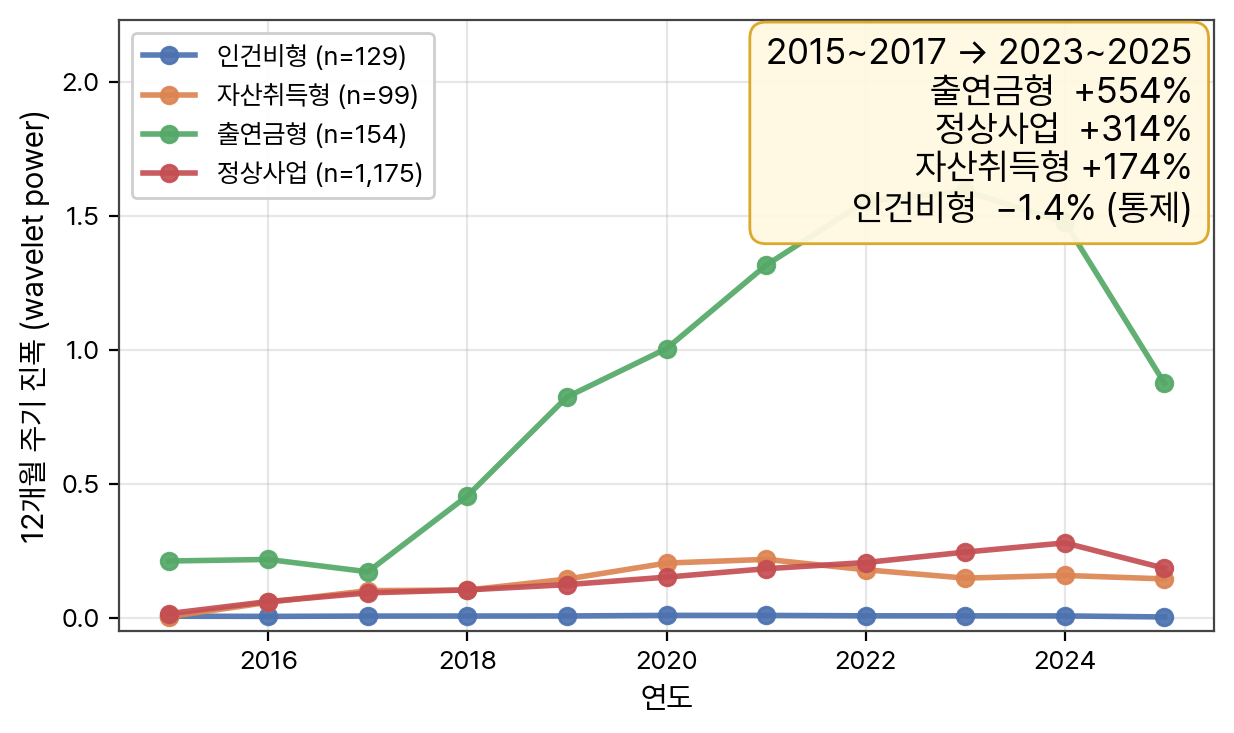
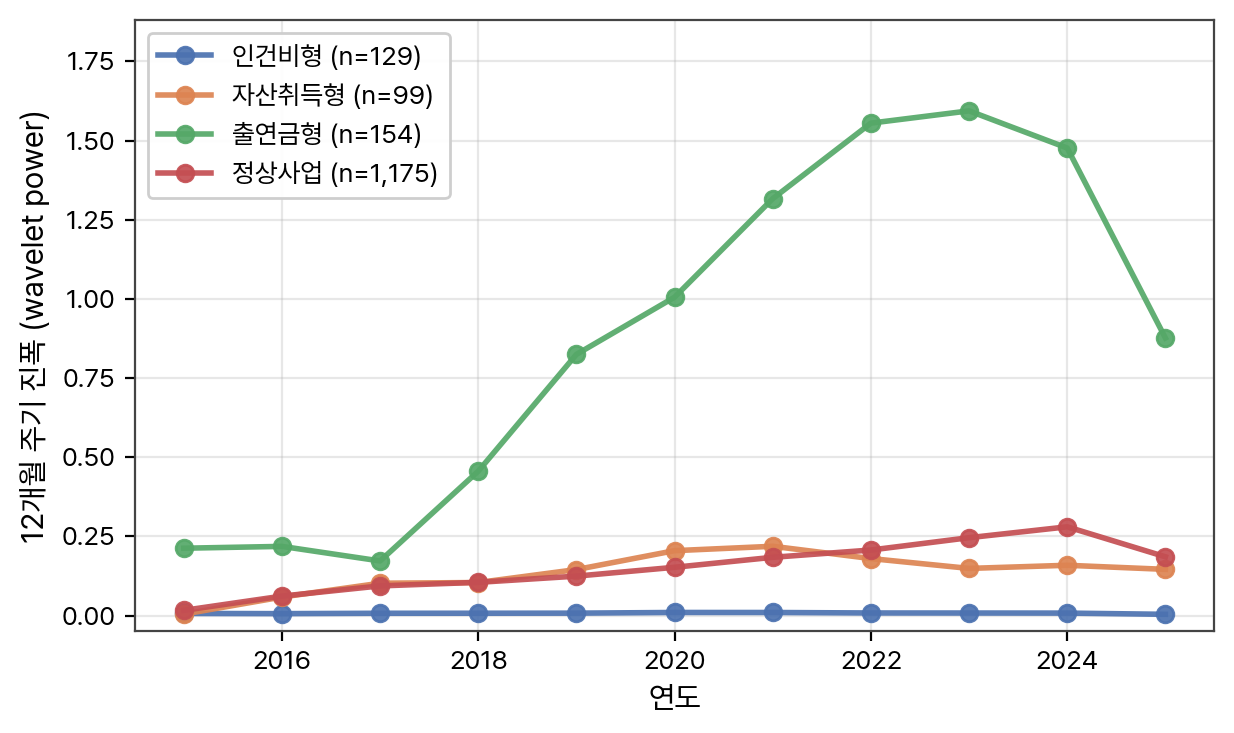
fig: h28_evolution 변화율 박스 제거 — 출연금형 정점 가림 해소
노란 annotation 박스(우상단)가 ymax 헤드룸 1.40× 부족으로 출연금형
정점 구간(2022~2024, 1.48~1.59)을 가리던 문제 수정. 박스 수치는 본문
표 5 + 캡션에 이미 있어 중복이므로 제거하고 ymax를 1.18×로 축소 —
가려졌던 2023 정점과 2025 하강(코로나 후 고원·하락)이 모두 보임.
conference_v1 캡션도 실재하지 않는 "정책 변화점 표시" 문구를 정정.

공유 그림이라 main_v2.typ에도 반영됨(main_v2 캡션은 미수정).

diff --git a/scripts/figures/redo_fig15_evolution.py b/scripts/figures/redo_fig15_evolution.py
@@ -3,8 +3,10 @@
 source: scripts/h28_wavelet.py
 A4 본문 폭 6.3 inch 1:1, figsize=(6.3, 3.8), dpi=200
 
-paper 사양: legend 차트 안 (좌상단), 변화율 annotation 박스 (우상단).
-column 폭 제한 때문에 외부 legend 사용 불가 — 내부 배치 + ymax 헤드룸 1.40.
+paper 사양: legend 차트 안 (좌상단). 변화율 수치는 본문 표 5 + 캡션에 있어
+중복이므로 차트 내 annotation 박스는 제거 (박스가 출연금형 정점 2022~2024를
+가리던 문제 해소). column 폭 제한 때문에 외부 legend 불가 — 좌상단 내부 배치.
+ymax 헤드룸 1.18 (정점이 화면을 거의 채우되 legend 자리만 확보).
 
 슬라이드용 변종은 redo_slidefig_h28_evolution.py 참조.
 """
@@ -54,22 +56,12 @@ ax.set_xlabel('연도')
 ax.set_ylabel('12개월 주기 진폭 (wavelet power)')
 ax.grid(alpha=0.3)
 
-# 정점(출연금형 1.55) 위쪽 여유 확보 — 변화율 박스가 자리잡을 공간
+# 정점(출연금형 2023년 1.59) 위 작은 여백만 — legend 자리 확보. 박스 제거로 큰 헤드룸 불필요.
 ymax_data = ev['power_12m'].max()
-ax.set_ylim(-0.05, ymax_data * 1.40)
+ax.set_ylim(-0.05, ymax_data * 1.18)
 
+# legend는 좌상단(좌측 구간 곡선이 모두 낮아 가림 없음)
 ax.legend(loc='upper left', frameon=True, framealpha=0.95)
-
-# 변화율 박스 — 우상단, 정점 위 빈 공간
-ax.text(0.98, 0.97,
-        '2015~2017 → 2023~2025\n'
-        '출연금형  +554%\n'
-        '정상사업  +314%\n'
-        '자산취득형 +174%\n'
-        '인건비형  −1.4% (통제)',
-        transform=ax.transAxes, ha='right', va='top', fontsize=13,
-        bbox=dict(boxstyle='round,pad=0.45', fc='#fff8e1',
-                  ec='#daa520', alpha=0.95))
 
 plt.tight_layout()
 
